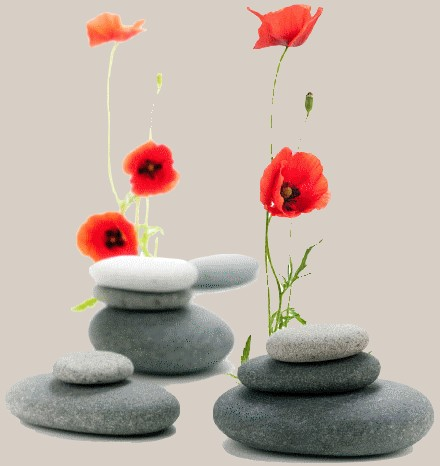
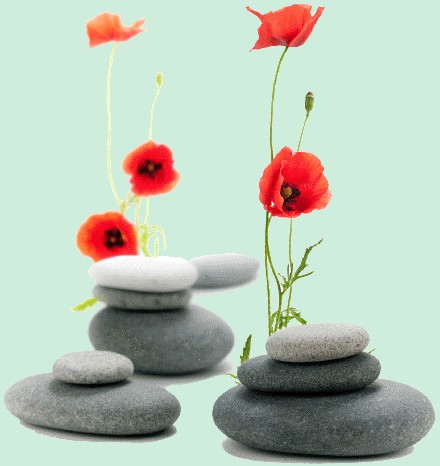
Image acceuil transparent
Modif view acceuil.php et image

diff --git a/lefleuriste/application/views/pages/accueil.blade.php b/lefleuriste/application/views/pages/accueil.blade.php
@@ -20,7 +20,7 @@ Bienvenue chez nous :) -->
             </div><!--/span-->
 			</div>
             <div class="span4">
-          		{{HTML::image('public/img/fleuraccueil.jpg')}}
+          		{{HTML::image('public/img/fleuraccueil.png')}}
         	</div><!--/span-->
             <div class="span4">
 				<div class="presentation">
